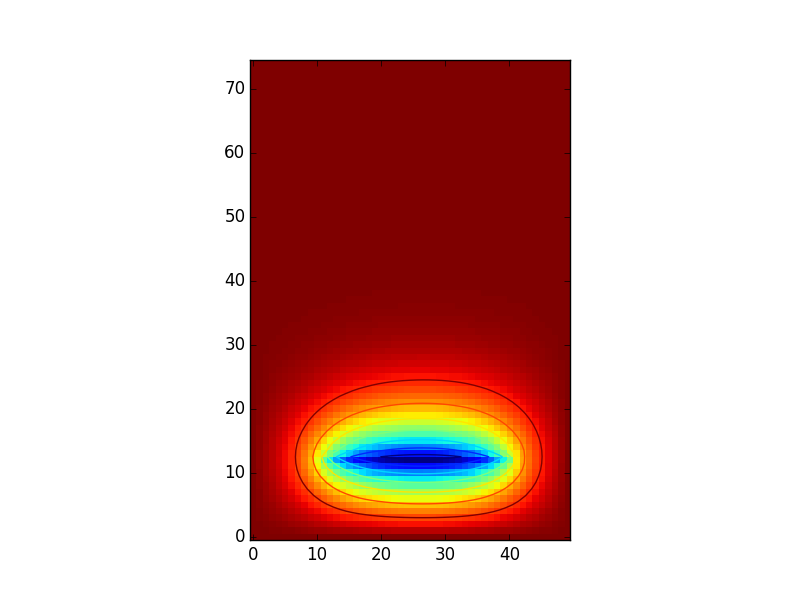
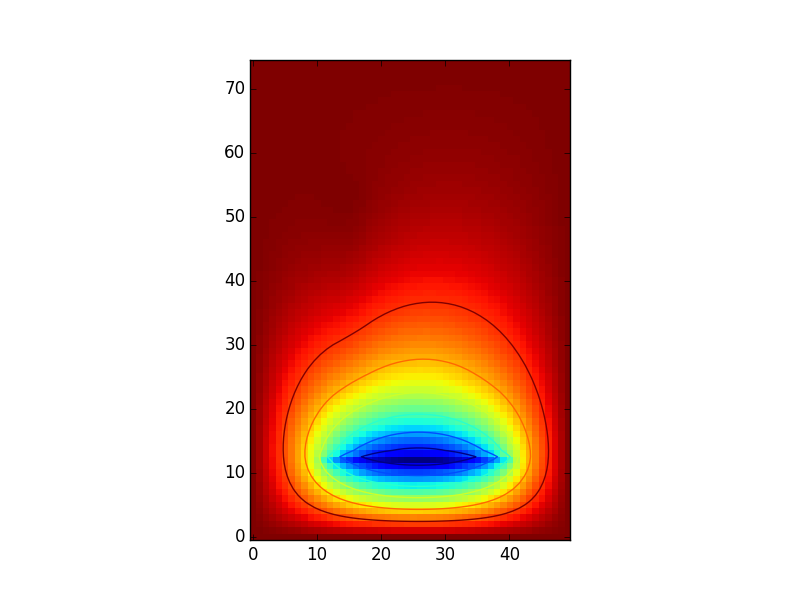
cambios pequeños
se realiza una iteracion mas larga con w = 1.2, comprobando que en algun
momento se cumple la condicion de convergencia

Changed region(s): [[0.3125, 0.27, 0.7188, 0.9]]

diff --git a/intento1.py b/intento1.py
@@ -32,6 +32,7 @@ def r(i, j, Lx, Ly, h):
 
 
 '''
+pendiente una implementacion mas compacta para la iteracion
 def paso_sin_carga(phi, phi_n, N_x, N_y):
     'solo la iteracion son considerar el valor de la densidad'
     N_x = int(N_x)
@@ -60,7 +61,7 @@ def paso_con_carga(phi, phi_n, p, nx_i, ny_i, nx_f, ny_f):
 
 def una_iter(phi, phi_n, p): # = N_x, N_y, Lx, Ly, h, w = 1.
     '''
-    Da un paso en la iteracion para toda la grilla
+    Da un paso en la iteracion para toda la grilla parte por parte
     '''
     N_x, N_y, Lx, Ly, h, w = p
     N_x = int(N_x)
@@ -73,56 +74,59 @@ def una_iter(phi, phi_n, p): # = N_x, N_y, Lx, Ly, h, w = 1.
                                        phi[i, j+1] + phi_n[i, j-1] +
                                        h**2. * r(i, j, Lx, Ly, h)))
     '''
-    for j in range(1, 12):
-        for i in range(1, N_x -1):
+    for j in range(1, 12): #abajo de la linea
+        for i in range(1, N_x -1): #recorre completo
             phi_n[i, j] = ((1 - w) * phi[i, j] +
                               w / 4 * (phi[i+1, j] + phi_n[i-1, j] +
                                        phi[i, j+1] + phi_n[i, j-1] ))
 
-    for j in range(12, 14):
+    for j in range(12, 14): #en la linea
+        for i in range(1, 11): #para el borde antes de la linea
+            phi_n[i, j] = ((1 - w) * phi[i, j] +
+                              w / 4 * (phi[i+1, j] + phi_n[i-1, j] +
+                                       phi[i, j+1] + phi_n[i, j-1] ))
+        for i in range(41, N_x - 1): #borde despues de la linea
+            phi_n[i, j] = ((1 - w) * phi[i, j] +
+                              w / 4 * (phi[i+1, j] + phi_n[i-1, j] +
+                                       phi[i, j+1] + phi_n[i, j-1] ))
+        #esta parte es redundante, pero me sirve para ordenar mis ideas
+        for j in range(12, 13): #bajo la linea, usando la condicion -1
+            for i in range(11, 41):
+                phi_n[i,j] =  ((1 - w) * phi[i, j] +
+                          w / 3 * (phi[i+1, j] + phi_n[i-1, j] +
+                                   phi_n[i, j-1] + h**2 * r(i, j, Lx, Ly, h)
+                                   + h*(-1.)))
+
+
+        for j in range(13, 14): #encima de la linea, usando condicion +1
+            for i in range(11, 41):
+                phi_n[i,j] =  ((1 - w) * phi[i, j] +
+                          w / 3 * (phi[i+1, j] + phi_n[i-1, j] +
+                                   phi_n[i, j-1] + h**2 * r(i, j, Lx, Ly, h)
+                                   + h*(1.)))
+
+
+    for j in range(14, 17): #sobre la linea y antes del rectangulo de la letra
         for i in range(1, N_x - 1):
             phi_n[i, j] = ((1 - w) * phi[i, j] +
                               w / 4 * (phi[i+1, j] + phi_n[i-1, j] +
                                        phi[i, j+1] + phi_n[i, j-1] ))
-
-        for i in range(1, 11):
+    for j in range(17, 58): #a la altura del rectangulo
+        for i in range(1, 12): #a la derecha
             phi_n[i, j] = ((1 - w) * phi[i, j] +
                               w / 4 * (phi[i+1, j] + phi_n[i-1, j] +
-                                       phi[i, j+1] + phi_n[i, j-1] ))
-        for i in range(41, N_x - 1):
-            phi_n[i, j] = ((1 - w) * phi[i, j] +
-                              w / 4 * (phi[i+1, j] + phi_n[i-1, j] +
-                                       phi[i, j+1] + phi_n[i, j-1] ))
-
-        for j in range(12, 13): #redundante, pero me sirve para ordenar mi idea
-            for i in range(11, 41):
-                phi_n[i,j] =  ((1 - w) * phi[i, j] +
-                          w / 3 * (phi[i+1, j] + phi_n[i-1, j] +
-                                   phi_n[i, j-1] + h**2 * r(i, j, Lx, Ly, h) + h*(-1.)))
-
-
-        for j in range(13, 14): #redundante, pero me sirve para ordenar mi idea
-            for i in range(11, 41):
-                phi_n[i,j] =  ((1 - w) * phi[i, j] +
-                          w / 3 * (phi[i+1, j] + phi_n[i-1, j] +
-                                   phi_n[i, j-1] + h**2 * r(i, j, Lx, Ly, h) + h*(1.)))
-
-
-    for j in range(14, 17):
-        for i in range(1, 12):
-            phi_n[i, j] = ((1 - w) * phi[i, j] +
-                              w / 4 * (phi[i+1, j] + phi_n[i-1, j] +
-                                       phi[i, j+1] + phi_n[i, j-1] ))
-        for i in range(12, 38):
+                                       phi[i, j+1] + phi_n[i, j-1]))
+        for i in range(12, 38): #dentro
             phi_n[i, j] = ((1 - w) * phi[i, j] +
                               w / 4 * (phi[i+1, j] + phi_n[i-1, j] +
                                        phi[i, j+1] + phi_n[i, j-1] +
                                        h**2. * r(i, j, Lx, Ly, h)))
-        for i in range(38, N_x -1):
+        for i in range(38, N_x -1): #a la izq
             phi_n[i, j] = ((1 - w) * phi[i, j] +
                               w / 4 * (phi[i+1, j] + phi_n[i-1, j] +
-                                       phi[i, j+1] + phi_n[i, j-1] ))
-    for j in range(17, N_y - 1):
+                                       phi[i, j+1] + phi_n[i, j-1]))
+
+    for j in range(58, N_y - 1): #sobre el rectangulo
         for i in range(1, N_x -1):
             phi_n[i, j] = ((1 - w) * phi[i, j] +
                               w / 4 * (phi[i+1, j] + phi_n[i-1, j] +
@@ -149,11 +153,9 @@ def no_ha_convergido(phi, phi_n, toler = 1e-5):
 Lx = 10
 Ly = 15
 h = 0.2
-w = 1
+w = 1.2
 N_x = Lx/ h
 N_y = Ly/ h
-print N_x
-print N_y
 
 
 phi = np.zeros((N_x, N_y))
@@ -162,15 +164,16 @@ phi_s = np.zeros((N_x, N_y))
 
 #iteracion
 
-p= (N_x, N_y, Lx, Ly, h, w )
+p= (N_x, N_y, Lx, Ly, h, w) #mas practico definir el vector para usar como
+                            #parametro
 una_iter(phi, phi_s, p)
 n = 1
-Nf = 100
+Nf = 3000
 while n < Nf and no_ha_convergido(phi, phi_s):
     phi = phi_s.copy()
     una_iter(phi, phi_s, p)
     n = n + 1
-    print n
+    print n #permite ver si el algoritmo esta avanzando o se queda pegado
 
 
 
